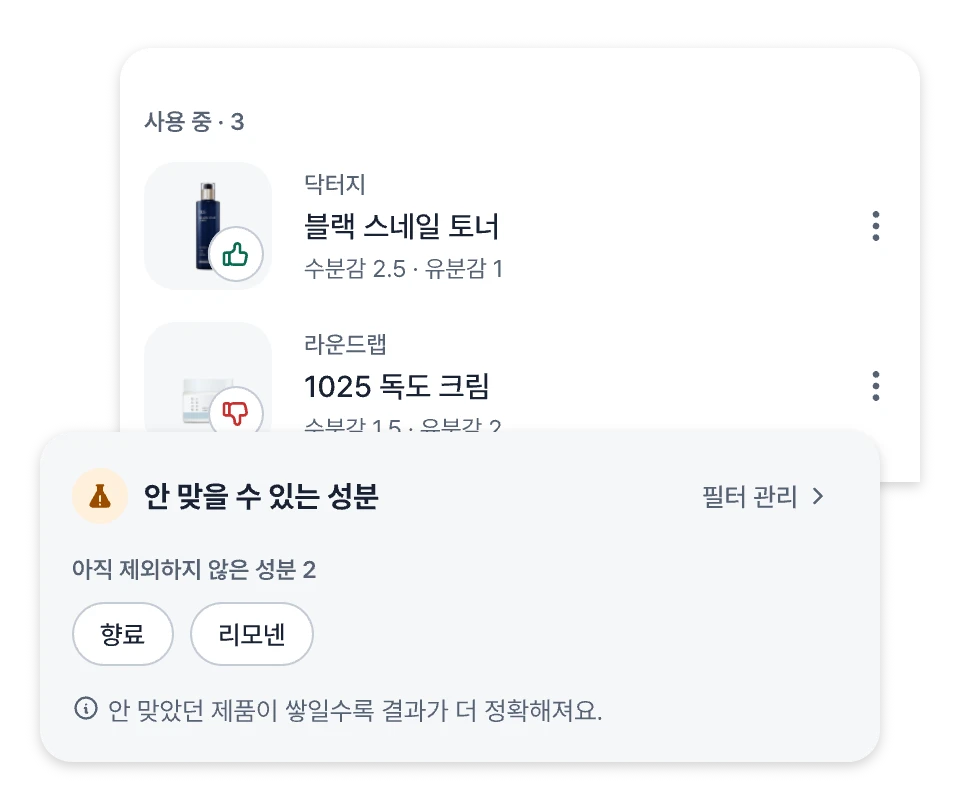
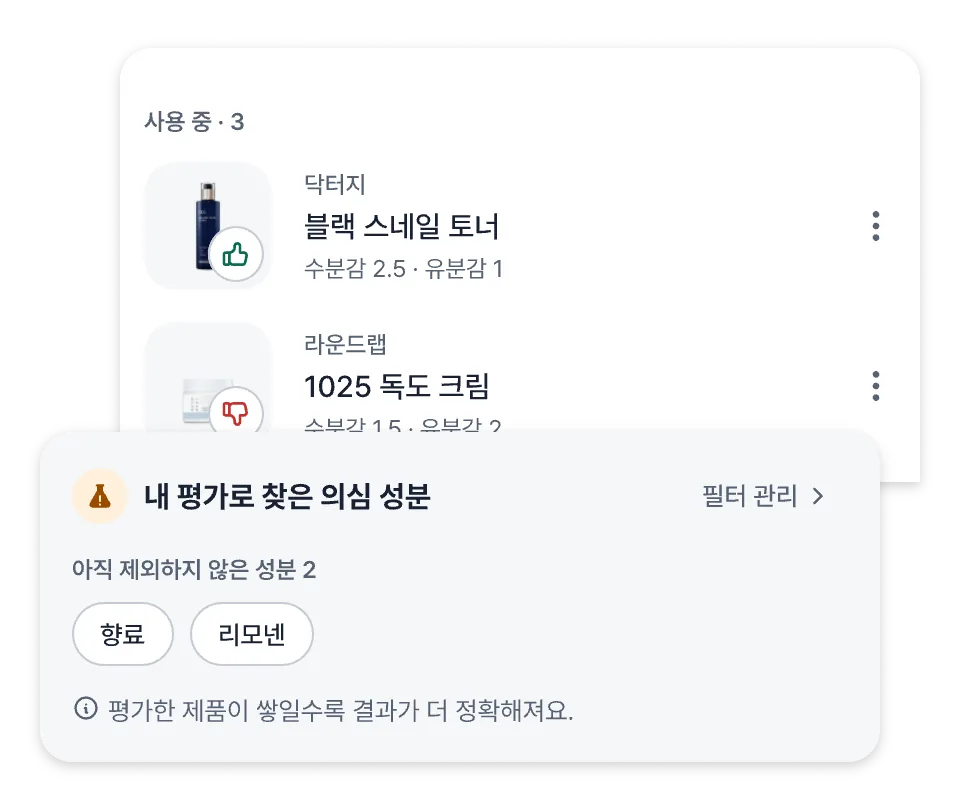
feat : 서비스 소개 화면 .pen 반영
- 히어로·파우치 3단계·안심 안내·시작 카드·메타데이터의 금지 문구를 '조심할 성분'·'의심 성분'·'낮게 평가한 제품'으로 바꿈
- '이런 것도 할 수 있어요'에 유튜버와 루틴 항목을 더해 6개로 늘림
- 옛 문구가 그려진 히어로 이미지 3장을 .pen 에서 같은 크기로 다시 내보냄

Ref: #1300
Ref: #1241

Changed region(s): [[0.1562, 0.5938, 0.4688, 0.6562], [0.0938, 0.875, 0.625, 0.9062], [0.7188, 0.5938, 0.8438, 0.625]]

diff --git a/client/app/about/page.tsx b/client/app/about/page.tsx
@@ -13,7 +13,7 @@ import { SiteFooter } from "@/components/ui/SiteFooter";
 export const metadata: Metadata = {
   title: "서비스 소개",
   description:
-    "써 본 화장품을 파우치에 모으면 나와 안 맞는 성분을 찾아 드려요. 성분으로 화장품을 찾고 전성분을 확인하는 파우디의 사용법을 소개합니다.",
+    "써 본 화장품을 파우치에 모으면 조심할 성분을 찾아 드려요. 성분으로 화장품을 찾고 전성분을 확인하는 파우디의 사용법을 소개합니다.",
   alternates: { canonical: "/about" },
 };
 
@@ -69,11 +69,11 @@ const SHELF_STEPS = [
     },
   },
   {
-    title: "안 맞을 수 있는 성분을 찾아 드려요",
+    title: "의심 성분을 찾아 드려요",
     description:
-      "안 맞았던 제품들에 함께 든 성분을 알려 드려요. 원인이라고 단정하지 않고, 먼저 살펴볼 성분을 보여 드려요.",
+      "낮게 평가한 제품들에 함께 든 성분을 알려 드려요. 원인이라고 단정하지 않고, 먼저 살펴볼 성분을 보여 드려요.",
     image: {
-      alt: "안 맞았던 블랙 스네일 토너와 인텐시브 크림에 함께 든 성분으로 향료를 짚어 준다.",
+      alt: "낮게 평가한 블랙 스네일 토너와 인텐시브 크림에 함께 든 성분으로 향료를 짚어 준다.",
       narrow: { src: "/images/about/shelf-ingredients-narrow.webp", width: 326, height: 185 },
       wide: { src: "/images/about/shelf-ingredients-wide.webp", width: 272, height: 185 },
     },
@@ -89,6 +89,16 @@ const FEATURES: readonly { readonly icon: IconName; readonly title: string; read
   { icon: "book", title: "성분마다 무슨 역할인지", description: "배합 목적과 설명을 참고자료와 함께 보여 드려요." },
   { icon: "scale", title: "용량별 가격 비교", description: "용량마다 정가와 ml당 가격을 한눈에 비교해요." },
   { icon: "grid", title: "브랜드·카테고리로 둘러보기", description: "원하는 제품 유형만 골라 둘러볼 수 있어요." },
+  {
+    icon: "brand-youtube",
+    title: "유튜버가 말한 제품 보기",
+    description: "유튜버가 영상에서 제품을 어떻게 말했는지, 그 대목과 함께 모아 보여 드려요.",
+  },
+  {
+    icon: "sun-moon",
+    title: "루틴으로 기록하고 나누기",
+    description: "쓰는 제품을 루틴으로 기록하고, 다른 사람의 루틴과 댓글도 볼 수 있어요.",
+  },
 ];
 
 const ASSURANCES: readonly { readonly icon: IconName; readonly title: string; readonly description: string }[] = [
@@ -100,7 +110,7 @@ const ASSURANCES: readonly { readonly icon: IconName; readonly title: string; re
   {
     icon: "shield-check",
     title: "원인이라고 단정하지 않아요",
-    description: "안 맞았던 제품에 함께 든 성분 중, 먼저 살펴볼 만한 성분을 알려 드려요.",
+    description: "낮게 평가한 제품에 함께 든 성분 중, 먼저 살펴볼 만한 성분을 알려 드려요.",
   },
   {
     icon: "file-text",
@@ -221,13 +231,13 @@ export default function AboutPage() {
               <p data-about-rise="2" className="about-rise text-16 leading-normal text-text-body min-[600px]:text-18">
                 써 본 화장품을 파우치에 모으면
                 <br />
-                나와 안 맞는 성분을 찾아 드려요
+                조심할 성분을 찾아 드려요
               </p>
             </div>
             <div data-about-rise="3" className="about-rise flex w-full justify-center lg:flex-1 lg:justify-end">
               <SnippetImage
                 eager
-                alt="내 파우치 화면. 사용 중인 제품 목록 위에 ‘안 맞을 수 있는 성분’ 카드가 겹쳐 있고, 아직 제외하지 않은 성분으로 향료와 리모넨을 보여 준다."
+                alt="내 파우치 화면. 사용 중인 제품 목록 위에 ‘내 평가로 찾은 의심 성분’ 카드가 겹쳐 있고, 아직 제외하지 않은 성분으로 향료와 리모넨을 보여 준다."
                 narrow={{ src: "/images/about/hero-mobile.webp", width: 358, height: 340 }}
                 tablet={{ src: "/images/about/hero-tablet.webp", width: 460, height: 380 }}
                 wide={{ src: "/images/about/hero-desktop.webp", width: 480, height: 400 }}
@@ -577,7 +587,7 @@ export default function AboutPage() {
                   <p className="text-15 leading-normal text-text-secondary min-[600px]:text-16">
                     파우치에 담고 잘 맞았는지 고르면
                     <br />
-                    나와 안 맞는 성분을 찾아 드려요.
+                    의심 성분을 찾아 드려요.
                   </p>
                 </div>
                 <StartLink href="/pouch" variant="primary">

diff --git a/client/app/about/page.test.tsx b/client/app/about/page.test.tsx
@@ -16,9 +16,7 @@ describe("서비스 소개 /about", () => {
     const heading = screen.getByRole("heading", { level: 1 });
 
     expect(heading).toHaveTextContent("다들 좋다는데,왜 나한테는 안 맞을까요?");
-    expect(heading.nextElementSibling).toHaveTextContent(
-      "써 본 화장품을 파우치에 모으면나와 안 맞는 성분을 찾아 드려요",
-    );
+    expect(heading.nextElementSibling).toHaveTextContent("써 본 화장품을 파우치에 모으면조심할 성분을 찾아 드려요");
   });
 
   it("넓은 화면에서는 앱 틀 밖으로 나와 화면 전체를 쓴다", () => {
@@ -47,9 +45,28 @@ describe("서비스 소개 /about", () => {
     expect(steps.map((step) => within(step).getByRole("heading").textContent)).toEqual([
       "써 본 제품을 담아요",
       "잘 맞았는지 골라요",
-      "안 맞을 수 있는 성분을 찾아 드려요",
+      "의심 성분을 찾아 드려요",
     ]);
     for (const step of steps) expect(within(step).getByRole("img")).toHaveAccessibleName();
+  });
+
+  it("이런 것도 할 수 있어요에서 유튜버·루틴까지 기능 여섯 개를 소개한다", () => {
+    render(<AboutPage />);
+
+    const features = screen.getByRole("region", { name: "이런 것도 할 수 있어요" });
+
+    expect(
+      within(features)
+        .getAllByRole("heading", { level: 3 })
+        .map((heading) => heading.textContent),
+    ).toEqual([
+      "공유 한 번으로 전성분 열기",
+      "성분마다 무슨 역할인지",
+      "용량별 가격 비교",
+      "브랜드·카테고리로 둘러보기",
+      "유튜버가 말한 제품 보기",
+      "루틴으로 기록하고 나누기",
+    ]);
   });
 
   it("나만의 필터·성분으로 찾기·전성분을 각자의 화면 조각으로 소개한다", () => {
@@ -78,7 +95,7 @@ describe("서비스 소개 /about", () => {
     render(<AboutPage />);
 
     const faq = screen.getByRole("region", { name: "자주 묻는 질문" });
-    const first = within(faq).getByRole("button", { name: "안 맞을 수 있는 성분은 어떻게 찾나요?" });
+    const first = within(faq).getByRole("button", { name: "어떤 성분을 의심 성분으로 보나요?" });
     const login = within(faq).getByRole("button", { name: "로그인하지 않아도 쓸 수 있나요?" });
 
     expect(first).toHaveAttribute("aria-expanded", "true");
